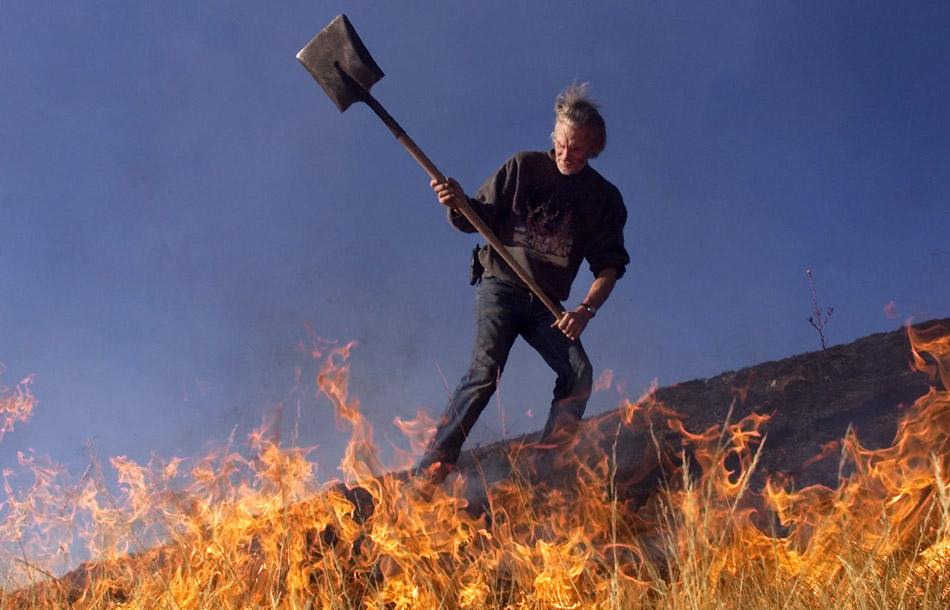
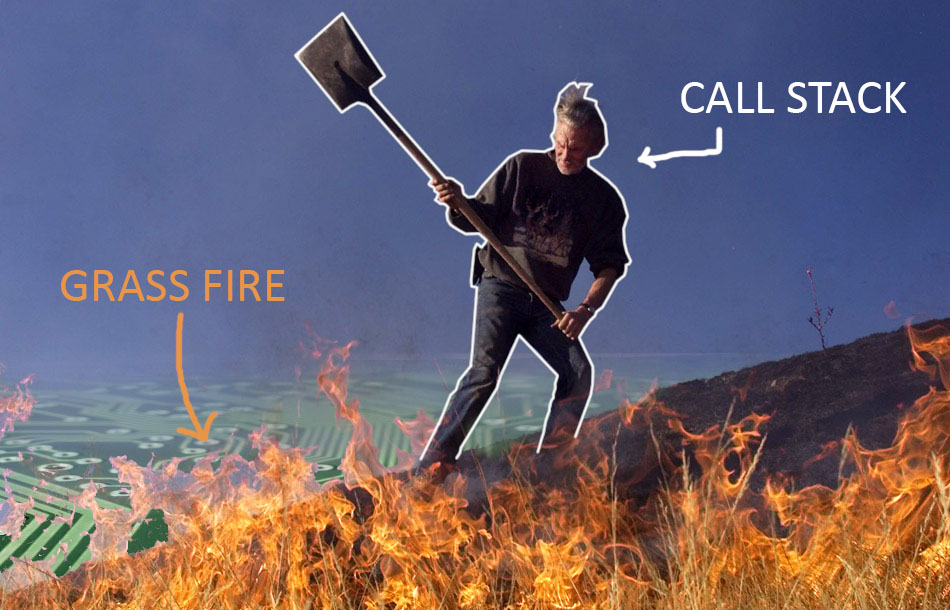
more or less done w my part of implmentation(rasmus)

diff --git a/include/Implemention.tex b/include/Implemention.tex
@@ -101,8 +101,7 @@ The process of converting an rgb image described above is a matter of simple poi
 Really the only big change is the decision to use a look up table. A look up table is useful if you are going to be performing the same operation on similar data a lot of times. 
 \subsection{Lookup tables}
 The concept of a lookup table is, "instead of calculating this thing every time, why don't i calculate a table with the results of all possible inputs and just look up what the result is". This might sound like madness until one realizes the magnitude of data we are working with. The webcam that we used had a resolution of 640 x 480. That is 307200 pixel. Now multiplications and additions are very fast, but division is a more expensive operation and we have to do division and multiplication three times per pixel (one for each channel). We found that at runtime using a look up table increased the speed of our conversion algorithm by 100.25\% as can be seen in table \ref{table:rgConvSpeed}. 
-	\begin{multicols}{2}
-
+\begin{multicols}{2}
 	\begin{figure}[H]
 	\includegraphics[width=1\linewidth]{figure/Analysis/Normalized.png}
 	\label{rgConversion}
@@ -112,6 +111,7 @@ The concept of a lookup table is, "instead of calculating this thing every time,
     \columnbreak
 	\begin{table}[H]
 		\centering
+			\caption{Time taken to run the function. It can be seen that more data precomputed into a lookup table, results in faster execution. Due to the number of repetitions even something as basic as an "if smaller than" statement can significantly increase the speed. Times are average times after 100000 runs on a test image with the dimensions 540 * 720}
 		\begin{tabular}{ l | l }
 			\hline			
 			No lookup table & .0015028 sec\\
@@ -119,14 +119,12 @@ The concept of a lookup table is, "instead of calculating this thing every time,
 			Look up table always& .0007741 sec\\
 			\hline 
 		\end{tabular}
-	\caption{Time taken to run the function. It can be seen that more data precomputed into a lookup table, results in faster execution. Due to the number of repetitions even something as basic as an "if smaller than" statement can significantly increase the speed. Times are average times after 100000 runs on a test image with the dimensions 540 * 720}
 	\label{table:rgConvSpeed}
 	\end{table}
 \end{multicols}
 
 \subsection{Creating a look up table}
 Creating a look up table is straight forward. You take the operation that would be performed, and save the results for the range of inputs needed. We know from the theory section that a color can be assigned by $RGcolor = 255 * \frac{color}{sumOfColor}$. There are two variables at play here. Sum which can vary between 0, when all colors are zero, and 765, and Color which can vary between 0, and 255. To compute a lookup table  that includes all possible combinations of variables, we need an array of size 766 * 256. The values are assigned when creating the table using a double for loop, as can be seen in Listing \ref{listing:lutTable}.
-\todo{update to new threshold style}
 \begin{listing}[H]
 \caption{Instantiating our lookup table}
 \label{listing:lutTable}
@@ -148,7 +146,7 @@ Creating a look up table is straight forward. You take the operation that would 
 The first thing the loop does is to check if the arguments are below the threshold where they should be zeroed (to prevent noise in dark areas from messing with the image). In that case it sets the index to zero. Otherwise calculate the value that would result from the color(j) divided by sum(i) and multiplied by 255.
 \subsubsection{Suming rgb channels and looking up results}
 This is point processing and as such it calls for a double for loop to ensure each pixel is visited. The function takes an input image assumed to be BGR, and an output image also amused to be BGR. The ampersand(\&) in the function signature, seen in Listing \ref{listing:sum}, indicates that the argument should be passed by reference. This allows for changes to the original data to be made. If not included we would be making changes copies instead.\\\\
-Before the loop we instantiate a three pointers so we don't have to instantiate them inside the loop. \codeword{p} is a pointer to a row in the rgb image we want to convert. \codeword{cp} is a pointer to the equivalent row in the output image. \codeword{lutptr} points to a row in the look up table. This is useful because the sum, and therefore the column, will be the same for each color in the pixel. So we will be looking at the same row three times in a row, one for red, one for blue, and so on. With the pointers one will not have to jump as far in memory every time the lookup table is used. Basically, it is quicker to get from \codeword{lutptr[sum][0]} to \codeword{lutptr[sum][red]}, then from the start to \codeword{lutptr[sum][red]}. 
+Before the loop we instantiate three pointers so we don't have to instantiate them inside the loop. \codeword{p} is a pointer to a row in the rgb image we want to convert. \codeword{cp} is a pointer to the equivalent row in the output image. \codeword{lutptr} points to a row in the look up table. This is useful because the sum, and therefore the column, will be the same for each color in the pixel. So we will be looking at the same row three times in a row, one for red, one for blue, and so on. With the pointers one will not have to jump as far in memory every time the lookup table is used. Basically, it is quicker to get from \codeword{lutptr[sum][0]} to \codeword{lutptr[sum][red]}, then from the start to \codeword{lutptr[sum][red]}. 
 \begin{listing}[H]
 	\caption{RG conversion code}
 	\label{listing:sum}
@@ -184,10 +182,9 @@ Inside the for loop, the code starts by saving the values of each channel to the
 	\label{fig:rgsnapshot}
 \end{figure} 
 
-
-\subsection{Thresholding in RG}
+\section{Thresholding in RG}
 \todo{write a bit more about the implication of each threshold}
-Because RG can be represented by two values it is possible to plot the  chromaticity space using two axes, as can be seen in figure \ref{fig:rgbNorm}. The image contains a slightly modified RG space. Instead of 0 to 255, it is 0 to 1. Really it is just percentage based instead. 
+Because RG can be represented by two values it is possible to plot the  chromaticity space using two axes, as can be seen in figure \ref{fig:rgbNorm}. The image contains a slightly modified, but prettier, RG space. 
 \begin{figure}[H]
 	\centering
 	\includegraphics[width=0.5\linewidth]{figure/Analysis/normRGB.png}
@@ -195,8 +192,8 @@ Because RG can be represented by two values it is possible to plot the  chromati
 	\label{fig:rgbNorm}
 \end{figure}
 There are different ways to threshold in RG, and because of the two dimensionality they are wonderfully reminiscent of high school math. Common amongst all of the presented approaches is that they use the red and green values of each pixel to determine whether the pixel should be set to 255
-or 0.\\
-\textbf{In range}, is an often used way of thresholdnig in the HSV color space\footnote{\url{https://docs.opencv.org/3.2.0/df/d9d/tutorial\_py\_colorspaces.html}}. One sets a range in each axis in which to threshold. For example between 160 to 255 in red, and 0 to 60 in green. The thresholding consists of comparing the red and green value in each pixel to the ranges. If both values are inside the designated range the pixel is set to 255, else it is set to 0. The resulting threshold can be seen in \autoref{thresholdintrange}. This will create a square segmentation in the chromaticity space. It should not surprise anyone because we are comparing two constants. Constants create straight lines. With its square shape, it can be difficult to get a broad enough spectrum, without cutting into different colors. For example, under blue light from the sky the markers might be a fair bit bluer. You also cannot set it too wide, since doing so will cause with thing to also be segmented. There are ways the provide more control over the segmentation.\\
+or 0.\\\\
+\textbf{In range}, is an often used way of thresholdnig in the HSV color space\footnote{\url{https://docs.opencv.org/3.2.0/df/d9d/tutorial\_py\_colorspaces.html}}. One sets a range in each axis in which to threshold. For example between 160 to 255 in red, and 0 to 60 in green. The thresholding consists of comparing the red and green value in each pixel to the ranges. If both values are inside the designated range the pixel is set to 255, else it is set to 0. The resulting threshold can be seen in \autoref{thresholdintrange}. This will create a square segmentation in the chromaticity space. It should not surprise anyone because we are comparing two constants. Constants create straight lines. With its square shape, it can be difficult to get a broad enough spectrum, without cutting into different colors. For example, under blue light from the sky the markers might be a fair bit bluer. You also cannot set it too wide, since doing so will cause white things to also be segmented. There are ways the provide more control over the segmentation.\\
 \begin{multicols}{2}
 	\begin{figure}[H]
 		\centering
@@ -215,7 +212,7 @@ or 0.\\
 \end{multicols}
 
 \todo{we are now using below line and distance make accoridng changes}
-\textbf{Line threshold}. Is another potential way to threshold. One creates a straight line with a formula $y = ax - b$. Where y and x each represent the two axes. $a$ decides the slope of the line and is controlled by $x$ which is one of the color. In this case, lets say $x$ is red. $b$ decides where the thresholding should start and can be found using $b =- i * a$. Where $i$ is the start point of the line. Based on the equation we can find value of green that would place it on the line for a given red value. Then our values can be compared the line to see which side of the line it is on. If the values are on the right side it to 255, else set it to zero. An example of this is a below line threshold as seen in \autoref{fig:thresholdbelowline}\\
+\textbf{Line threshold}. Is another potential way to threshold. One creates a straight line with a formula $y = ax - b$. Where y and x each represent the two axes. $a$ determines the slope of the line and is controlled by $x$ which is one of the color. In this case, lets say $x$ is red. $b$ decides where the thresholding should start and can be found using $b =- i * a$. Where $i$ is the start point of the line. Based on the equation we can find value of green that would place it on the line for a given red value. Then our values can be compared the line to see which side of the line it is on. If the values are on the right side it to 255, else set it to zero. An example of this is a below line threshold as seen in \autoref{fig:thresholdbelowline}\\
 \begin{multicols}{2}
 	\begin{figure}[H]
 		\centering
@@ -229,34 +226,35 @@ or 0.\\
 		\includegraphics[width=1\linewidth]{figure/Analysis/thresholdcolor.png}
 		\caption{combined threshold in rg space}
 		\label{fig:threshold}
-	\end{figure}
-	
+	\end{figure}	
 \end{multicols}
-\textbf{Distance threshold}. Is based on finding the chromaticity distance from the a pixels color to a reference value in RG. If the distance is below a threshold the set it to 255, else 0. In two dimensions the distance between two points, $p_0$ and $p_1$, can be found as $d = \sqrt{(p_1x - p_0x)^2 +(p_1y - p_0y)^2}$. In our implementation we used a distance threshold with a red value of 180 and a green value of 40 for our reference color. The threshold distance was set to 60. This produces the threshold observed in \autoref{fig:threshold}. There is a problem though. We are unable to threshold extremely red color.\\
-\textbf{Combined Threshold}. It is possible to combine these different approaches to thresholding. Combining and subtracting the thresholds allows us shape the it as we want. Following the problems with segmenting extreme reds, we decided to put an in range on top of the distance based threshold to ensure that we could capture all the shades of red. The resulting threshold can be seen in \autoref{fig:threshold}. We found that this produces the most consistent threshold, and was the most resistant to lighting changes. It now time to look at how to actually implement all of the RG things.
+\textbf{Distance threshold}. Is based on finding the chromaticity distance from the a pixels color to a reference value in RG. If the distance is below a threshold the set it to 255, else 0. In two dimensions the distance between two points, $p_0$ and $p_1$, can be found as $d = \sqrt{(p_1x - p_0x)^2 +(p_1y - p_0y)^2}$. In our implementation we used a distance threshold with a red value of 180 and a green value of 40 for our reference color. The threshold distance was set to 60. This produces the threshold observed in \autoref{fig:threshold}. There is a problem though. We are unable to threshold extremely red color.\\\\
+\textbf{Combined Threshold}. It is possible to combine these different approaches to thresholding. Combining and subtracting the thresholds allows us shape the threshold as we want. Following the problems with segmenting extreme reds, we decided to put an in range on top of the distance based threshold to ensure that we could capture all the shades of red. The resulting threshold can be seen in \autoref{fig:threshold}. We found that this produces the most consistent threshold, and was the most resistant to lighting changes.
 
 \subsection{Thresholding implementation}
-\todo{We are now using both below the line thresholding and distance make according changes}
-So like the conversion this operation involves  visiting each pixel once, performing an operation that uses its color value as inputs Ohh you feel that, that is my look-up-table-senses tingling.  Since we are doing distance based lookup, turning the equation in code is quiet simple. The operation that we need to perform is find the distance, if it is smaller than the threshold  set pixel to 255, else 0. How we initialized our table can be seen in listing \ref{listing:thresholdDist}.\todo{we have a new threshold}
+Like the RG conversion this operation involves visiting each pixel once and performing an operation that uses its color values as inputs. You feel that, that is my look-up-table-senses tingling. Turning the equation into code is quiet simple. The operation that we need to perform is find the distance, if it is smaller than the threshold  set pixel to 255, else if larger than  else 0. How we initialized our table can be seen in listing \ref{listing:thresholdDist}.\todo{we have a new threshold}
+
 \begin{listing}[H]
 	\caption{Instantiating the Distance threshold look up table}
 	\label{listing:thresholdDist}
 	\begin{minted}[frame=lines,
-		framesep=2mm,baselinestretch=1.1,fontsize=\footnotesize,linenos]{c++}
-		int theLut[256][256];
-		for (int i = 0; i < 256; i++) {
-			for (int j = 0; j < 256; j++) {
-				if (((i - g)*(i - g) + (j - r)*(j - r)) < 3600) {
-					theLut[i][j] = 255;
-				}
-				else {
-					theLut[i][j] = 0;
-				}
-			}
+framesep=2mm,baselinestretch=1.1,fontsize=\footnotesize,linenos]{c++}
+uchar lookup[256][256];
+for (int i = 0; i < 256; i++) {
+	for (int j = 0; j < 255; j++) {
+		if (j > 180) { // if red is above 180
+			lookup[i][j] = 255;
+		}else if (((i - g)*(i - g) + ((j - r)*(j - r))) < 3600) {
+			lookup[i][j] = 255;
+		}else {
+			lookup[i][j]= 0;
 		}
-	\end{minted}
+	}
+}
+\end{minted}
 \end{listing}
-Inside the double for loop there is an if statement that test the distance from the inputs $f(j,i)$ to a reference point $p(r,g)$. Rather than comparing it to the distance, it compares to the distance squared. This saves us having to use a square root. Although the table is instantiated once and does not have to be computationally speedy it is just less confusing. So we test if the distance is smaller than 60. If true make the index white, otherwise make it black. 
+
+Inside the double for loop there is an if statement that test the distance from the inputs $f(j,i)$ to a reference point $p(r,g)$. Rather than comparing it to the distance, it compares to the distance squared. This saves us having to use a square root. So we test if the distance is smaller than 60. If true make the index white, otherwise make it black. 
 In terms of implementations using the lookup table, it is very similar to the rg conversion and as such it not worth mentioning. The output after thresholding the normalized test image, can be seen in Figure \ref{fig:thsnapshot}\\
 \begin{figure}[H]
 	\centering
@@ -264,13 +262,13 @@ In terms of implementations using the lookup table, it is very similar to the rg
 	\caption{The thresholded version of out normalized test image}
 	\label{fig:thsnapshot}
 \end{figure} 
-The algorithm has now produced a binary thresholded image with value that are either 255 or 0. The next thing it does is separate the image into blobs. But how? and why? those things are coming up in the next section. 
+The algorithm has now produced a binary thresholded image with value that are either 255 or 0. This image is used to to a grassfire blob detection. 
 \section{Blob detection}
-See, what did i tell you. Blob detection used to segment a picture into individual blobs. If you need to deal with multiple object in a image, it is worth investigating. 
+Blob detection used to segment a picture into individual blobs. If you need to deal with multiple object in a image, it is worth investigating. 
 \subsection{What is a blob, and why detect them}
 Blob stands for \textbf{B}inary \textbf{L}arge \textbf{OB}ject. They represent regions of interest(ROI) in a image. Extracting the blobs from an image can significantly cut down on processing time, because the program now only have to process the ROI instead of the entire image. Another use is to calculate features that might be useful to know about the blob, like size, and bounding box, and a host of others. For a program a program trying to recognize real life objects, Knowing the range of features that the object normally produces can help it determine if a blob is that object. Generally these features are calculated from a list of pixels in the blob.\\\\
 There is staggeringly large amount of features that could be calculated on a blob. But our job is made \textbf{A LOT} easier by three factors. First, our marker are resting on a surface perpendicular to the camera. This means that rotation will only happen in two dimensions and that the shape of the markers will not change substantially when rotated. Secondly, our markers are circles. There are many things to love about circle, their heigth/with relationship is the same in any rotation, and you can work with its radius. Finally, we are segmenting based on a color(red), and after the segmentation we are already left with mostly regions of interest(see Fig \ref{fig:thsnapshot}). Meaning our blob detection has to do less work in discriminating the blobs.
-\section{The blob object and parameters}
+\subsection{The blob object and parameters}
 The list of pixels and blob parameters are often held in an structure.
 We created one for this purpose. Our blob structure is called \codeword{gylphObj}, because the pattern underneath can resemble a glyph\footnote{\url{goo.gl/HkFksM}}. The structure is declared as shown in listing \ref{listing:glyph}
 \begin{listing}[H]
@@ -288,11 +286,11 @@ We created one for this purpose. Our blob structure is called \codeword{gylphObj
 	\end{minted}
 	\label{listing:glyph}
 \end{listing}
-We dive deeper into the parameters and what they are used for in the next section, so the uses of the variables will be not discussed in detail there. 
-cVector, short for coordinate vector, contains two int. One for each the dimensions. In c++ vector is a list type that can grow dynamically. So the vector of cVectors is going to contain the coordinates of all the pixels in the blob. bBox is short for bounding box and are the two coordinates used to draw a bounding box around the blob, and find its height to width ratio. Since a circle always has similar height to width ratio in any rotation, this parameter can be used to find disqualify a lot of blobs. \codeword{center} is the coordinates to the center of the bounding box.
+We dive deeper into the parameters and what they are used for in the next section, so the uses of the variables will be not discussed in detail here. However a brief overview is provided. 
+cVector, short for coordinate vector, contains two int. One for each the dimensions. In c++ vector is a list type that can grow dynamically. So the vector of cVectors is going to contain the coordinates of all the pixels in the blob. bBox is short for bounding box and are the two coordinates used to draw a bounding box around the blob, and find its height to width ratio. Since a circle always has similar height to width ratio in any rotation, this parameter can be used to disqualify a lot of blobs. \codeword{center} is the coordinates to the center of the bounding box.
 The integer \codeword{nr} is used to help visualize the grass-fire algorithm, and will later contain the found value from the pattern underneath the markers. Finally, since we find way more blobs than there are actual markers, and returning all the blobs to unity be a waste of time, a boolean \codeword{returnable} exists. It is only set to true if the blob passes all test and therefore is considered a marker.
 \subsection{Blob Extraction by recursion}
-All features of a blob are calculated from a list of pixels included in it. This section deals with how to get that initial list of pixels. In a segmented image, a blob is nothing more than a number of white pixel with other white pixels as neighbors. Because of this property each pixel in the blob must be connected to each other pixel through a string of white pixels. Correspondingly, a blob can be found by finding all connected pixels of any pixel in the blob.\\
+All features of a blob are calculated from a list of pixels included in it. This section deals with how to get that initial list of pixels. In a segmented image, a blob is nothing more than a number of white pixel with other white pixels as neighbors. Because of this property each pixel in the blob must be connected to each other pixel through a string of white pixels. Correspondingly, a blob can be found by finding all connected pixels of any pixel in the blob.\\\\
 Following this definition extracting a blob can be made quiet simple. Find a white pixel. This pixel is now a blob.  If any pixels that it shares borders with it are white. Add them to the blob. Then check if their neighbors are white pixels. If they are add them to the blob, and so on. To ensure that each pixel is added to the blob only once, adding a pixel to the blob should change it's color. When all the connected pixels are in the blob, that blob is done. Now you can find the next white pixel, and start a new blob there. You wont find any from the old blob because they all have a new color.\\
 This is called a Grassfire algorithm, because it starts at a point, spreads like a fire in all directions, and dies when there is no more grass/pixels.
 It is a recursive algorithm. This recursive function calling is very easy to implement but means that the program's call stack might fill up and crash it. A concept illustrated metaphorically in Figure \ref{fig:firefighter}.  \todo{what is a call stack}
@@ -302,7 +300,7 @@ It is a recursive algorithm. This recursive function calling is very easy to imp
 	\caption{What happens inside your call stack during a grassfire algorithm. The fire spreads adding calls onto the stack, raging out of control, putting our call stack, the old man, in danger. Until the fire is done spreading the stack cannot resolve. When done spreading the call stack is resolved, represented by the old man, can out the fire.}
 	\label{fig:firefighter}
 \end{figure} 
-Because of the relatively small blobs in our program, usually somewhere between 150 and 450 pixels, all we had to do prevent stack overflow was to increase the stack heap size to 4 mb instead of the visual studio standard of 1 mb. However larger resolutions would cause significantly bigger issues. If we double the number of pixel in each axis, we get a four times larger blob. At large camera sizes, the stack has must be massive to accommodate the recursive function. While the webcam used in the prototype is tiny, early in the process it was thought that a larger resolution would be used in the final prototype. To anticipate this some options where added to the prototype. Namely the option to set a variable called \codeword{gridSize} which causes the algorithm to make jumps of size \codeword{gridSize} pixels instead of 1. Instead of checking the pixel to its right the algorithm will check the one \codeword{gridSize} to the right. Setting \codeword{gridSize} to 2 will cause the blobs to be four times as small, counteracting a larger camera resolution. Now the algorithms speed vs accuracy can be tailored to suit our specific need.
+Because of the relatively small blobs in our program, usually somewhere between 150 and 450 pixels, all we had to do prevent stack overflow was to increase the stack heap size to 4 mb instead of the visual studio standard of 1 mb. However larger resolutions would cause significantly bigger issues. If we double the number of pixel in each axis, we get a four times larger blob. At large camera sizes, the stack would have to be larger to accommodate the recursive function. Sampling that many pixels would also slow down the algorithm. While the webcam used in the prototype is tiny, early in the process it was thought that a larger resolution would be used in the final prototype. To anticipate this some options where added to the prototype. Namely the option to set a variable called \codeword{gridSize} which causes the algorithm to make jumps of size \codeword{gridSize} pixels instead of 1. Instead of checking the pixel to its right the algorithm will check the one \codeword{gridSize} to the right. Setting \codeword{gridSize} to 2 will cause the blobs to be four times as small, counteracting a larger camera resolution. Now the algorithms speed vs accuracy can be tailored to suit our specific need.
 \subsection{Grassfire implementation}
 Our implementation can be seen in listing \ref{listing:grassfireIm}. Due to its iterative nature, this method will be called many thousand times. Note that the function does not make use of the very computationally expensive Mat.at<uchar>(y,x) function. Instead we use pointers to navigate both horizontally and vertically.
 \begin{figure}[H]
@@ -340,7 +338,7 @@ void dropFire(uchar * pixel, glyphObj &store, int &width, int y, int x, cVector 
 	\end{minted}
 	\label{listing:grassfireIm}
 \end{listing} 
-The arguments consist of a pointer to the pixel, the blob that this fire is creating, and the image's width. Two ints that are the fires current coordinates. A reference to a vector to avoid instantiating a new one in each recursion. The function starts on line 2 by changing the pixels color, in order to avoid infinite recursion. Lines 3 to 5 adds the current coordinates to the blob. Next are four if statements. Each check if the neighboring pixel in a certain direction are white. If any of them are, it spreads the fire in those directions with the new x and y values.\\
+The arguments consist of a pointer to the pixel, the blob that this fire is going to add data to, and the image's width. Two ints that are the fire's current coordinates. A reference to a vector to avoid instantiating a new one in each recursion. The function starts on line 2 by changing the pixels color, in order to avoid infinite recursion. Lines 3 to 5 adds the current coordinates to the blob. Next are four if statements. Each check if the neighboring pixel in a certain direction are white. If any of them are, it spreads the fire in those directions with the new x and y values.\\
 With the knowledge of how to create the grassfire and how it works, all we need is to find the white pixels where the fire should start.
 
 \subsection{Scanning for white pixels}
@@ -376,16 +374,21 @@ void grassFireBlobDetection(Mat &biImg, vector<glyphObj> &blobs) {
 	\end{minted}
 	\label{listing:grassfire}
 \end{listing}
-The arguments for this function are a reference to an binary image, and references to a vector of blobs that will be filled with the data. The \codeword{dropFire} function in Listing \ref{listing:grassfireIm} needs to be passed the images width. a variable for this is instantiated on line 4. A temporary blob object(currentBlob) vector(assigner), and uchar pointer(passer) is created to avoid instantiating these objects in the recursive function. A reference to these will be passed instead. Finally the fire's color is set to be 245 in line 9 since it should not be white(255). Inside the double for loop it checks if the current pixel is completely white. If it is, a new blob is added to the vector of glyphObject that contains the blobs it color is set to the value of col, and the fire starts. To make it easier to display which pixels that belong to which blob, the color is made darker. This means that different fire will "burn" different colors into the image. To prevent the color from becoming negative it is reset when it becomes to dark, in line 20 to 23.
-\todo{image before and after the grassfire}\\\\
-The results of the image before and after this algorithm has been run can be seen in \todo{ref the above image}. It can be seen that each blob has been segmented from the difference in colors between them. As the color of the fire is changed each time a new fire is started. Now that we have a list of the pixels inside each blob, it is time to calculate the parameters are used to determine and evaluate the object.
+The arguments for this function are a reference to an binary image, and references to a vector of blobs that will be filled with the data. The \codeword{dropFire} function in Listing \ref{listing:grassfireIm} needs to be passed the images width. a variable for this is instantiated on line 4. A temporary blob object(currentBlob) vector(assigner), and uchar pointer(passer) is created to avoid instantiating these objects in the recursive function. A reference to these will be passed instead. Finally the fire's color is set to be 245 in line 9 since it should not be white(255). Inside the double for loop it checks if the current pixel is completely white. If it is, a new blob is added to the vector of glyphObject that contains the blobs it color is set to the value of col, and the fire starts. To make it easier to display which pixels that belong to which blob, the color is made darker. This means that different fire will "burn" different colors into the image. To prevent the color from becoming negative it is reset when it becomes to dark, in line 20 to 23.\\
+\begin{figure}
+	\centering
+	\includegraphics[width=0.6\linewidth]{figure/Analysis/grassfire.png}
+	\caption{The test image after the grassfire algorithm has been run. Each blob is made slightly darker than the lost one, until a threshold where the color is made quiet white again}
+	\label{fig:grsnapshot}
+\end{figure} 
+The results of the image before and after this algorithm has been run can be seen in Figure \ref{fig:grsnapshot}. It can be seen that each blob has been segmented from the difference in colors between them. As the color of the fire is changed each time a new fire is started. Now that we have a list of the pixels inside each blob, it is time to calculate the parameters are used to determine and evaluate the object.
 \section{Blob analysis}
 In this section we will deal with how to calculate parameters for a given blob, and how these are used to evaluate whether the blob is one of the markers.
 \subsection{Parameter overview, and flow }
 At present we have a list of the pixels in each blob. To evaluate the markerhood of a given blob it needs the following parameters.
 \begin{enumerate}
 	\item Number of pixels in the blob.
-	\item Height to width relation ship of the bounding box.
+	\item Height to width relationship of the bounding box.
 	\item Bounding box center.
 	\item Rotation of the blob.
 \end{enumerate}
@@ -394,20 +397,21 @@ When all parameters are acquired, and if the blob passes all the tests, it is ti
 The flow of the algorithm can be seen in the flow chart below.
 \todo{make a flow chart for this}
 \\\\
-In regards to calculating the parameters, some of them are very simple to find. Finding the size a blob is easy because \codeword{vector<type>} already contains a \codeword{.size()} method. The bounding box consist of looping through all coordinates and saving the smallest and largest x and y that the program encounters. Finding the center averaging these values for x and y respectively. Rotation on the other hand is trickier, and requires use of knowledge about the layout of the marker.  
+In regards to calculating the parameters, some of them are very simple to find. Finding the size a blob is easy because \codeword{vector<type>} already contains a \codeword{.size()} method. The bounding box consist of looping through all coordinates and saving the smallest and largest x and y that the program encounters. Finding the center consists of averaging the same values for x and y respectively. Rotation, on the other hand is trickier and requires use of knowledge about the layout of the marker.  
 \subsection{Rotation}
-Finding a circle's rotation is impossible, if it does not have any distinguishing features. So we added some. There is a small line towards the center and we call it the direction line. If the center's coordinates are known, one can find the closest pixel in the blob. This pixel will be in the direction line. Finding a vector between these points will give you a rotation direction vector, from which the rotation can be calculated. This method of finding rotation is the primary reason why the bounding box center is used over center of mass when finding the center. The center of mass would be shifted towards the rotation line, and therefore the direction vector will be less stable, as seen in Figure \ref{fig:boundbox}.\\
+Finding a circle's rotation is impossible if it does not have any distinguishing features. So we added one, in the form of a small line towards the center that we call the direction line(seen to the left in Fig \ref{fig:vector}). If the center's coordinates are known, one can find the pixel in the blob closest to it. This pixel will be in the direction line. The distance from the center to the closest pixel will give create a vector, from which the rotation can be calculated. This method of finding rotation is the primary reason why we used the bounding box center over center of mass when finding the center. The center of mass would be shifted towards the rotation line, and therefore the direction vector will be less stable, as seen in Figure \ref{fig:boundbox}.\\
 \begin{figure}
 	\centering
 	\includegraphics[width=1\linewidth]{figure/Analysis/boundingbox.png}
-	\caption{example of how } 
+	\caption{the difference between using the center of mass or bounding box to find the blob center. With bad thresholding the found center is closer to the actual center, resulting in a better direction vector} 
 	\label{fig:boundbox}
 \end{figure}
-We found that smaller blobs would have a more wobbly rotation, because the direction line now contains fewer pixel, and since it only find one pixel it could result in a drastic snap. To combat this, instead of only using the closest pixel we average all the pixel within 70\% of the circles radius. We also store the results as a float. These changes make the direction vector much more stable, and have been illustrated in Figure \ref{fig:lowpixel}
+We found that smaller blobs would have a more wobbly direction vector, because the direction line now contains fewer pixel. Since it only finds one pixel it could result in a drastic snap. To combat this, instead of only using the closest pixel we average all the pixel within 70\% of the circles radius. This allows us to average a bunch of pixels in the direction line without sampling any from the
+periphery. Rotation is also calculated as a float instead of integer. These changes make the direction vector much more stable, and have been illustrated in Figure \ref{fig:lowpixel}
 \begin{figure}
 	\centering
 	\includegraphics[width=1\linewidth]{figure/Analysis/lowpixel.png}
-	\caption{} 
+	\caption{illustration of the advantage of using mean of many pixel vs single closest pixel to calculate the direction vector.} 
 	\label{fig:lowpixel}
 \end{figure}
  The code, seen in listing \ref{listing:direction}, executes inside a loop through the list of blobs, and happens right after the bounding box and its center has been found. \codeword{i} refers to the current blob.
@@ -440,7 +444,7 @@ rotY = (rotY / points.size());
 	\end{minted}
 	\label{listing:direction}
 \end{listing}
-Now that a direction vector has been found, we need to calculate the the position of each bit fields on the marker. This is done with a bit of vector math and knowledge of the marker layout. A legend of the important componenes can be seen in Figure \ref{fig:vector}.
+Now that a direction vector has been found, we need to calculate the the position of each bit fields on the marker. This is done with a bit of vector math and knowledge of the marker layout. A legend of the important components can be seen in Figure \ref{fig:vector}.
 \subsection{Vectors to find sample points}
 The direction vectors length will vary a bit, because sometimes the middle point moves a pixel or two. Under these circumstances the direction vector will still be reasonably stable, but its length will change depending on how much of the direction line is used for the direction calculation. Ideally one would like to base the vectors on a more stable property of the marker. For this reason, the direction vector is scaled so that its length is equal to the radius. We can now define distances as percentages of the markers radius. Sample points are the point where we check image intensity to determine whether the field is white or dark. These can be thought of as points on a "skeleton" made up of different vectors, as shown in Figure \ref{fig:vector}.
 \begin{figure}
@@ -511,7 +515,6 @@ outDetectedMarkersCount++;
 	\end{minted}
 	\label{listing:return}
 \end{listing}
-After all of that the data is now in unity. As such, we will cover that next
-
+After all of that the data is now in unity and the image processing section is now now done.
 \section{Limitations}
 Or different section title. This section will describe how the implementation differs from the description of the original idea in the "Design" section. Why was it not possible to do X (e.g. live update or 1024 item types etc.) and what did we do instead?
